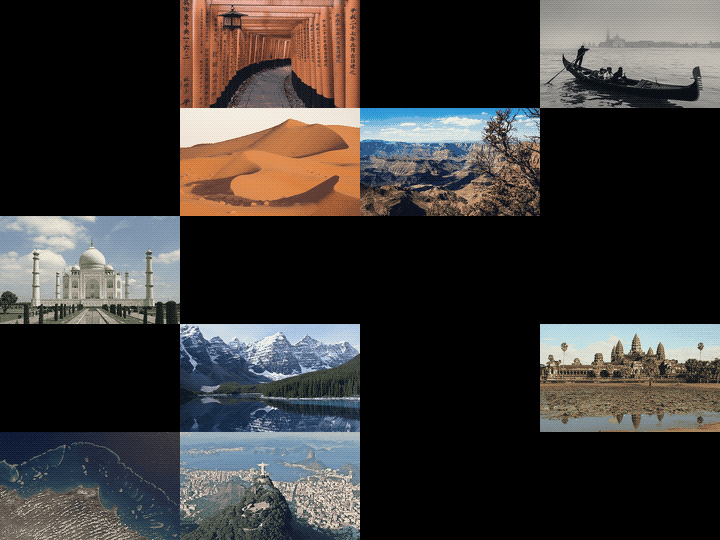
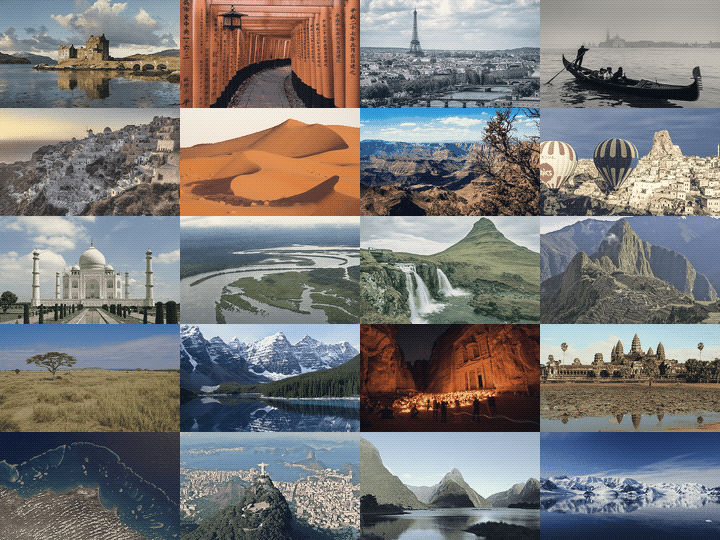
Globe: all 20 real place photos (finish the interrupted fetch), moonlit night side keeps the land readable
Claude-Session: https://claude.ai/code/session_01N97LkrCm8fhfTY3mzxuNCj

diff --git a/src/ui/globe/photos.ts b/src/ui/globe/photos.ts
@@ -4,13 +4,24 @@ export interface PhotoCredit { title: string; author: string; licence: string; u
 export const PHOTO_ATLAS = { src: 'img/places/places.webp', w: 720, h: 540, tw: 180, th: 108, cols: 4 };
 export const PHOTO_ORDER: string[] = ["highlands", "kyoto", "paris", "venice", "santorini", "sahara", "grandcanyon", "cappadocia", "tajmahal", "amazon", "iceland", "machupicchu", "serengeti", "banff", "petra", "angkor", "reef", "rio", "milford", "antarctica"];
 export const PHOTO_CREDIT: Record<string, PhotoCredit> = {
+  highlands: {"title": "Eilean_Donan_Castle,_Scotland_-_Jan_2011", "author": "Diliff", "licence": "CC BY-SA 3.0", "url": "https://commons.wikimedia.org/wiki/File:Eilean_Donan_Castle%2C_Scotland_-_Jan_2011.jpg"},
   kyoto: {"title": "Torii path with lantern at Fushimi Inari Taisha Shrine, Kyoto, Japan", "author": "Basile Morin", "licence": "CC BY-SA 4.0", "url": "https://commons.wikimedia.org/wiki/File%3ATorii_path_with_lantern_at_Fushimi_Inari_Taisha_Shrine%2C_Kyoto%2C_Japan.jpg"},
+  paris: {"title": "La_Tour_Eiffel_vue_de_la_Tour_Saint-Jacques,_Paris_août_2014_(2)", "author": "Yann Caradec from Paris, France", "licence": "CC BY-SA 2.0", "url": "https://commons.wikimedia.org/wiki/File:La_Tour_Eiffel_vue_de_la_Tour_Saint-Jacques%2C_Paris_ao%C3%BBt_2014_%282%29.jpg"},
   venice: {"title": "Gondola_Ride", "author": "Njsmith3", "licence": "CC BY-SA 4.0", "url": "https://commons.wikimedia.org/wiki/File:Gondola_Ride.jpg"},
+  santorini: {"title": "Oia_sunset_-_panoramio_(2)", "author": "TomasEE", "licence": "CC BY 3.0", "url": "https://commons.wikimedia.org/wiki/File:Oia_sunset_-_panoramio_%282%29.jpg"},
   sahara: {"title": "Merzouga_Dunes_2011", "author": "Bjørn Christian Tørrissen", "licence": "CC BY-SA 3.0", "url": "https://commons.wikimedia.org/wiki/File:Merzouga_Dunes_2011.jpg"},
   grandcanyon: {"title": "Canyon_River_Tree_(165872763)", "author": "Lennart Sikkema", "licence": "CC BY 3.0", "url": "https://commons.wikimedia.org/wiki/File:Canyon_River_Tree_%28165872763%29.jpeg"},
+  cappadocia: {"title": "Cappadocia_balloon_trip,_Ortahisar_Castle_(11893715185)", "author": "Arian Zwegers from Brussels, Belgium", "licence": "CC BY 2.0", "url": "https://commons.wikimedia.org/wiki/File:Cappadocia_balloon_trip%2C_Ortahisar_Castle_%2811893715185%29.jpg"},
   tajmahal: {"title": "Taj_Mahal_(Edited)", "author": "Yann ; edited by Jim Carter", "licence": "CC BY-SA 4.0", "url": "https://commons.wikimedia.org/wiki/File:Taj_Mahal_%28Edited%29.jpeg"},
+  amazon: {"title": "Amazon17_(5641020319)", "author": "CIAT", "licence": "CC BY-SA 2.0", "url": "https://commons.wikimedia.org/wiki/File:Amazon17_%285641020319%29.jpg"},
+  iceland: {"title": "Kirkjufell_in_Iceland", "author": "Anjali Kiggal", "licence": "CC BY-SA 4.0", "url": "https://commons.wikimedia.org/wiki/File:Kirkjufell_in_Iceland.jpg"},
+  machupicchu: {"title": "Machu_Picchu,_2023_(012)", "author": "Draceane", "licence": "CC BY-SA 4.0", "url": "https://commons.wikimedia.org/wiki/File:Machu_Picchu%2C_2023_%28012%29.jpg"},
+  serengeti: {"title": "Serengeti-Landscape-2012", "author": "Bjørn Christian Tørrissen", "licence": "CC BY-SA 3.0", "url": "https://commons.wikimedia.org/wiki/File:Serengeti-Landscape-2012.JPG"},
   banff: {"title": "Moraine_Lake_17092005", "author": "Gorgo", "licence": "Public domain", "url": "https://commons.wikimedia.org/wiki/File:Moraine_Lake_17092005.jpg"},
+  petra: {"title": "Al_khazneh", "author": "Susanahajer", "licence": "CC BY-SA 3.0", "url": "https://commons.wikimedia.org/wiki/File:Al_khazneh.jpg"},
   angkor: {"title": "Angkor_Wat", "author": "Bjørn Christian Tørrissen", "licence": "CC BY-SA 4.0", "url": "https://commons.wikimedia.org/wiki/File:Angkor_Wat.jpg"},
   reef: {"title": "ISS-45_StoryOfWater,_Great_Barrier_Reef,_Australia", "author": "NASA/Kjell Lindgren", "licence": "Public domain", "url": "https://commons.wikimedia.org/wiki/File:ISS-45_StoryOfWater%2C_Great_Barrier_Reef%2C_Australia.jpg"},
   rio: {"title": "Cidade_Maravilhosa", "author": "Rafael Rabello de Barros", "licence": "CC BY-SA 3.0", "url": "https://commons.wikimedia.org/wiki/File:Cidade_Maravilhosa.jpg"},
+  milford: {"title": "Milford_Sound_(New_Zealand)", "author": "Maros M r a z ( Maros )", "licence": "CC BY-SA 3.0", "url": "https://commons.wikimedia.org/wiki/File:Milford_Sound_%28New_Zealand%29.JPG"},
+  antarctica: {"title": "Paradise_Harbour,_Antarctica_(6087257019)", "author": "Liam Quinn from Canada", "licence": "CC BY-SA 2.0", "url": "https://commons.wikimedia.org/wiki/File:Paradise_Harbour%2C_Antarctica_%286087257019%29.jpg"},
 };

diff --git a/src/world/globe/stage.ts b/src/world/globe/stage.ts
@@ -76,7 +76,7 @@ void main(){
   if (k > 1.1) col = day;
   else if (k > 0.15) col = day * vec3(0.86, 0.85, 0.87);
   else if (k > -0.6) col = mix(day * 0.62, vec3(0.62, 0.42, 0.42), 0.22);   // the warm dusk band
-  else col = night * 1.3 + vec3(0.01, 0.015, 0.03);
+  else col = max(night * 1.3, day * vec3(0.42, 0.48, 0.62)) + vec3(0.01, 0.015, 0.03); // moonlit: the land still reads
   // the round form: a stepped darker rim towards the limb
   vec3 vn = normalize(vVN);
   float rim = vn.z;

diff --git a/src/world/globe/tools/fetch_photos.py b/src/world/globe/tools/fetch_photos.py
@@ -14,6 +14,7 @@ import re
 import sys
 import time
 import urllib.parse
+import urllib.error
 import urllib.request
 
 UA = "HootHollowAssetScript/1.0 (offline game build; keeps photo credits)"
@@ -38,7 +39,12 @@ def get(url, raw=False):
                 data = r.read()
             time.sleep(6.0)
             return data if raw else json.loads(data)
-        except Exception as e:  # rate limit or a hiccup: back off
+        except urllib.error.HTTPError as e:  # a missing page is final; a rate limit backs off
+            if e.code == 404:
+                raise
+            err = e
+            time.sleep(45 + attempt * 60)
+        except Exception as e:  # a hiccup: back off
             err = e
             time.sleep(45 + attempt * 60)
     raise err
@@ -76,7 +82,8 @@ def choose(place):
             continue
         if th["width"] < th["height"] * 1.2:
             continue
-        fname = urllib.parse.unquote(orig["source"].split("?")[0].split("/")[-1])
+        parts = orig["source"].split("?")[0].split("/")
+        fname = urllib.parse.unquote(parts[-2] if "/thumb/" in orig["source"] else parts[-1])   # big originals come as a thumb path
         if not fname.lower().endswith((".jpg", ".jpeg")):   # photographs only (no maps or diagrams)
             continue
         try:

diff --git a/docs/credits/globe.md b/docs/credits/globe.md
@@ -23,15 +23,26 @@ https://creativecommons.org/licenses/by-sa/4.0/ (and the other versions named be
 <!-- photos -->
 | place | photograph | author | licence |
 |---|---|---|---|
+| highlands | [Eilean_Donan_Castle,_Scotland_-_Jan_2011.jpg](https://commons.wikimedia.org/wiki/File:Eilean_Donan_Castle%2C_Scotland_-_Jan_2011.jpg) | Diliff | CC BY-SA 3.0 |
 | kyoto | [Torii path with lantern at Fushimi Inari Taisha Shrine, Kyoto, Japan.jpg](https://commons.wikimedia.org/wiki/File%3ATorii_path_with_lantern_at_Fushimi_Inari_Taisha_Shrine%2C_Kyoto%2C_Japan.jpg) | Basile Morin | CC BY-SA 4.0 |
+| paris | [La_Tour_Eiffel_vue_de_la_Tour_Saint-Jacques,_Paris_août_2014_(2).jpg](https://commons.wikimedia.org/wiki/File:La_Tour_Eiffel_vue_de_la_Tour_Saint-Jacques%2C_Paris_ao%C3%BBt_2014_%282%29.jpg) | Yann Caradec from Paris, France | CC BY-SA 2.0 |
 | venice | [Gondola_Ride.jpg](https://commons.wikimedia.org/wiki/File:Gondola_Ride.jpg) | Njsmith3 | CC BY-SA 4.0 |
+| santorini | [Oia_sunset_-_panoramio_(2).jpg](https://commons.wikimedia.org/wiki/File:Oia_sunset_-_panoramio_%282%29.jpg) | TomasEE | CC BY 3.0 |
 | sahara | [Merzouga_Dunes_2011.jpg](https://commons.wikimedia.org/wiki/File:Merzouga_Dunes_2011.jpg) | Bjørn Christian Tørrissen | CC BY-SA 3.0 |
 | grandcanyon | [Canyon_River_Tree_(165872763).jpeg](https://commons.wikimedia.org/wiki/File:Canyon_River_Tree_%28165872763%29.jpeg) | Lennart Sikkema | CC BY 3.0 |
+| cappadocia | [Cappadocia_balloon_trip,_Ortahisar_Castle_(11893715185).jpg](https://commons.wikimedia.org/wiki/File:Cappadocia_balloon_trip%2C_Ortahisar_Castle_%2811893715185%29.jpg) | Arian Zwegers from Brussels, Belgium | CC BY 2.0 |
 | tajmahal | [Taj_Mahal_(Edited).jpeg](https://commons.wikimedia.org/wiki/File:Taj_Mahal_%28Edited%29.jpeg) | Yann ; edited by Jim Carter | CC BY-SA 4.0 |
+| amazon | [Amazon17_(5641020319).jpg](https://commons.wikimedia.org/wiki/File:Amazon17_%285641020319%29.jpg) | CIAT | CC BY-SA 2.0 |
+| iceland | [Kirkjufell_in_Iceland.jpg](https://commons.wikimedia.org/wiki/File:Kirkjufell_in_Iceland.jpg) | Anjali Kiggal | CC BY-SA 4.0 |
+| machupicchu | [Machu_Picchu,_2023_(012).jpg](https://commons.wikimedia.org/wiki/File:Machu_Picchu%2C_2023_%28012%29.jpg) | Draceane | CC BY-SA 4.0 |
+| serengeti | [Serengeti-Landscape-2012.JPG](https://commons.wikimedia.org/wiki/File:Serengeti-Landscape-2012.JPG) | Bjørn Christian Tørrissen | CC BY-SA 3.0 |
 | banff | [Moraine_Lake_17092005.jpg](https://commons.wikimedia.org/wiki/File:Moraine_Lake_17092005.jpg) | Gorgo | Public domain |
+| petra | [Al_khazneh.jpg](https://commons.wikimedia.org/wiki/File:Al_khazneh.jpg) | Susanahajer | CC BY-SA 3.0 |
 | angkor | [Angkor_Wat.jpg](https://commons.wikimedia.org/wiki/File:Angkor_Wat.jpg) | Bjørn Christian Tørrissen | CC BY-SA 4.0 |
 | reef | [ISS-45_StoryOfWater,_Great_Barrier_Reef,_Australia.jpg](https://commons.wikimedia.org/wiki/File:ISS-45_StoryOfWater%2C_Great_Barrier_Reef%2C_Australia.jpg) | NASA/Kjell Lindgren | Public domain |
 | rio | [Cidade_Maravilhosa.jpg](https://commons.wikimedia.org/wiki/File:Cidade_Maravilhosa.jpg) | Rafael Rabello de Barros | CC BY-SA 3.0 |
+| milford | [Milford_Sound_(New_Zealand).JPG](https://commons.wikimedia.org/wiki/File:Milford_Sound_%28New_Zealand%29.JPG) | Maros M r a z ( Maros ) | CC BY-SA 3.0 |
+| antarctica | [Paradise_Harbour,_Antarctica_(6087257019).jpg](https://commons.wikimedia.org/wiki/File:Paradise_Harbour%2C_Antarctica_%286087257019%29.jpg) | Liam Quinn from Canada | CC BY-SA 2.0 |
 <!-- /photos -->
 
 ## Borrowed souvenir models
